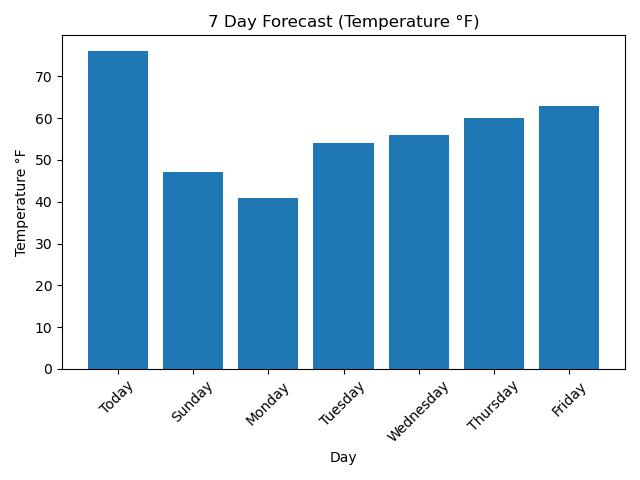
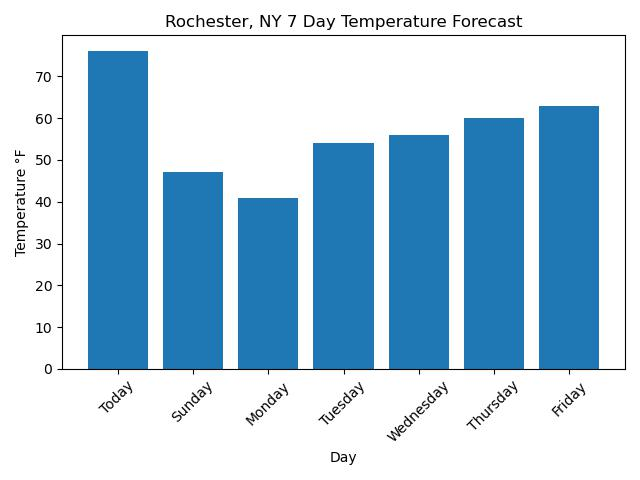
Final Project

Changed region(s): [[0.25, 0.0312, 0.8125, 0.0625]]

diff --git a/conda/PythonFinal/nwsclient.py b/conda/PythonFinal/nwsclient.py
@@ -1,23 +1,31 @@
+# This file is used to communicate with the NWS API
+
 import requests
 from config import Config
 
 
 class NWSClient:
-    def __init__(self):
+    def __init__(self): # This configures the request and headers
         self.base_url = Config.NWS_URL
         self.headers = {
             "User-Agent": Config.USER_AGENT,
             "Accept": "application/geo+json"
         }
 
+# This function obtains the data and returns the forecast portion. The properties
+# contain a list of periods of which must be iterated through to obtain
+# the temperature and name data for each of the periods
     def get_forecast(self):
         url = f"{self.base_url}"
-        try:
+        try: # Try/catch is needed to safely exit program if there is an error
+            # There are times when the NWS server is down
             response = requests.get(url, headers=self.headers)
+            # This if statemend ensures data is actually received before proceeding
+            # If there is no data, then the program must exit
             if response.status_code == 200:
                 response.raise_for_status()
-                data = response.json()
-                return data["properties"]["periods"]
+                data = response.json() #This puts the data in json format
+                return data["properties"]["periods"] # returns the blocks of days
             else:
                 print(f"Error: Received status code {response.status_code}")
                 quit("Error obtaining data")

diff --git a/conda/PythonFinal/forecast.py b/conda/PythonFinal/forecast.py
@@ -1,24 +1,28 @@
+# This file contains the forecast objects needed to produce the temperature results
 class ForecastPeriod:
     def __init__(self, name, temperature):
         self.name = name
         self.temperature = temperature
 
+    # This formats the output for the user
     def __repr__(self):
         return f"{self.name}: {self.temperature}°F"
     
 class Forecast:
     def __init__(self, raw_data):
-        self.periods = self._parse(raw_data)
+        self.periods = self._parse(raw_data) # This creates the periods of data 
 
-    def _parse(self, raw_data):
-
+    def _parse(self, raw_data): # The data contains bools for daytime/nighttime checks
+                                # This assignment ensures only the daily results are included
         day_periods = [p for p in raw_data if p["isDaytime"]][:7]
 
+        # This returns the function for each of the periods
         return [
             ForecastPeriod(p["name"], p["temperature"])
             for p in day_periods
         ]
     
+    # This is used to create the visualization with appropriate labels
     def get_labels_and_temps(self):
         labels = [p.name for p in self.periods]
         temps = [p.temperature for p in self.periods]

diff --git a/conda/PythonFinal/main.py b/conda/PythonFinal/main.py
@@ -1,19 +1,25 @@
+# This is the main program that calls all the functions to 
+# produce the intended output
+
 from nwsclient import NWSClient
 from forecast import Forecast
 from visual import NWSVisual
 
 def main():
-    client = NWSClient()
+    client = NWSClient() # Creats the NWSClient object
 
-    forecast = client.get_forecast()
+    forecast = client.get_forecast() # obtains the forecast (as long as the NWS server works!)
 
-    forecast_refined = Forecast(forecast)
-    labels, temps = forecast_refined.get_labels_and_temps()
+    forecast_refined = Forecast(forecast) # Refines the data
+    labels, temps = forecast_refined.get_labels_and_temps() # Generates labels for visual
 
+    # This displays the text of the forecast
     for period in forecast_refined.periods:
         print(period)
 
-    visualizer = NWSVisual()
+    # Creates the visual object
+    visualizer = NWSVisual() 
+    # Creates the actual display from the object using the labels
     visualizer.plot_bar_chart(labels, temps)
 
 if __name__ == "__main__":

diff --git a/conda/PythonFinal/visual.py b/conda/PythonFinal/visual.py
@@ -1,3 +1,5 @@
+# This produces a bar graph to display the temperature
+# It is saved in a jpg format
 import matplotlib.pyplot as plt
 
 
@@ -7,7 +9,7 @@ class NWSVisual:
 
         plt.bar(labels, temps)
 
-        plt.title("7 Day Forecast (Temperature °F)")
+        plt.title("Rochester, NY 7 Day Temperature Forecast")
         plt.xlabel("Day")
         plt.ylabel("Temperature °F")
         plt.xticks(rotation=45)

diff --git a/conda/PythonFinal/config.py b/conda/PythonFinal/config.py
@@ -1,3 +1,7 @@
+# This file stores the url address and user info
+# for accessing the NWS API. This is a free service and no key is required
+# however they do need proper headers
+
 class Config:
     NWS_URL = "https://api.weather.gov/gridpoints/BUF/76,66/forecast"
     USER_AGENT = "weather-app (pdr1974@gmail.com)"
